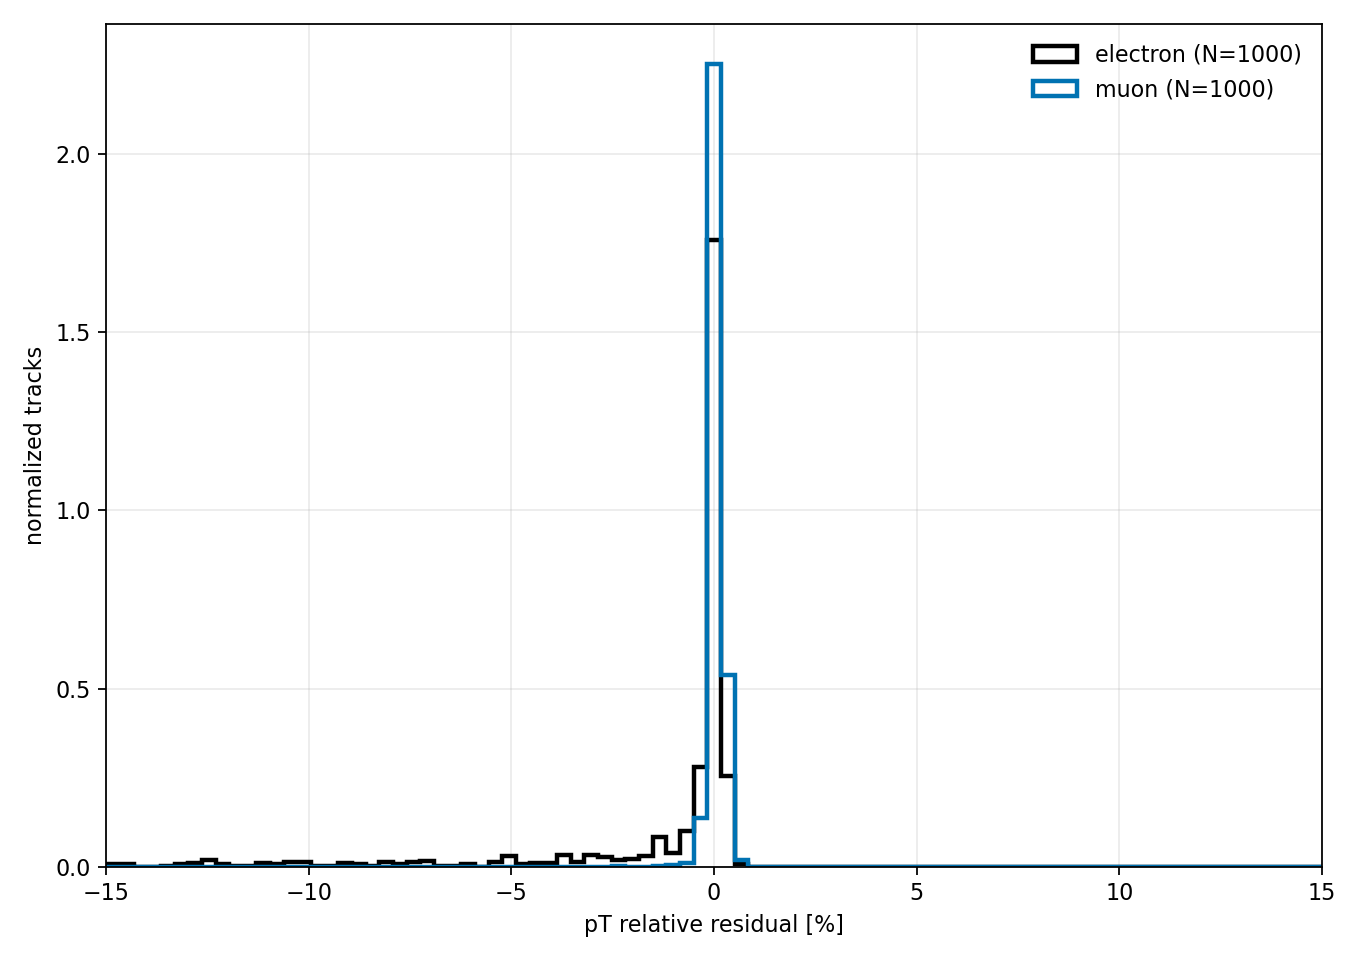
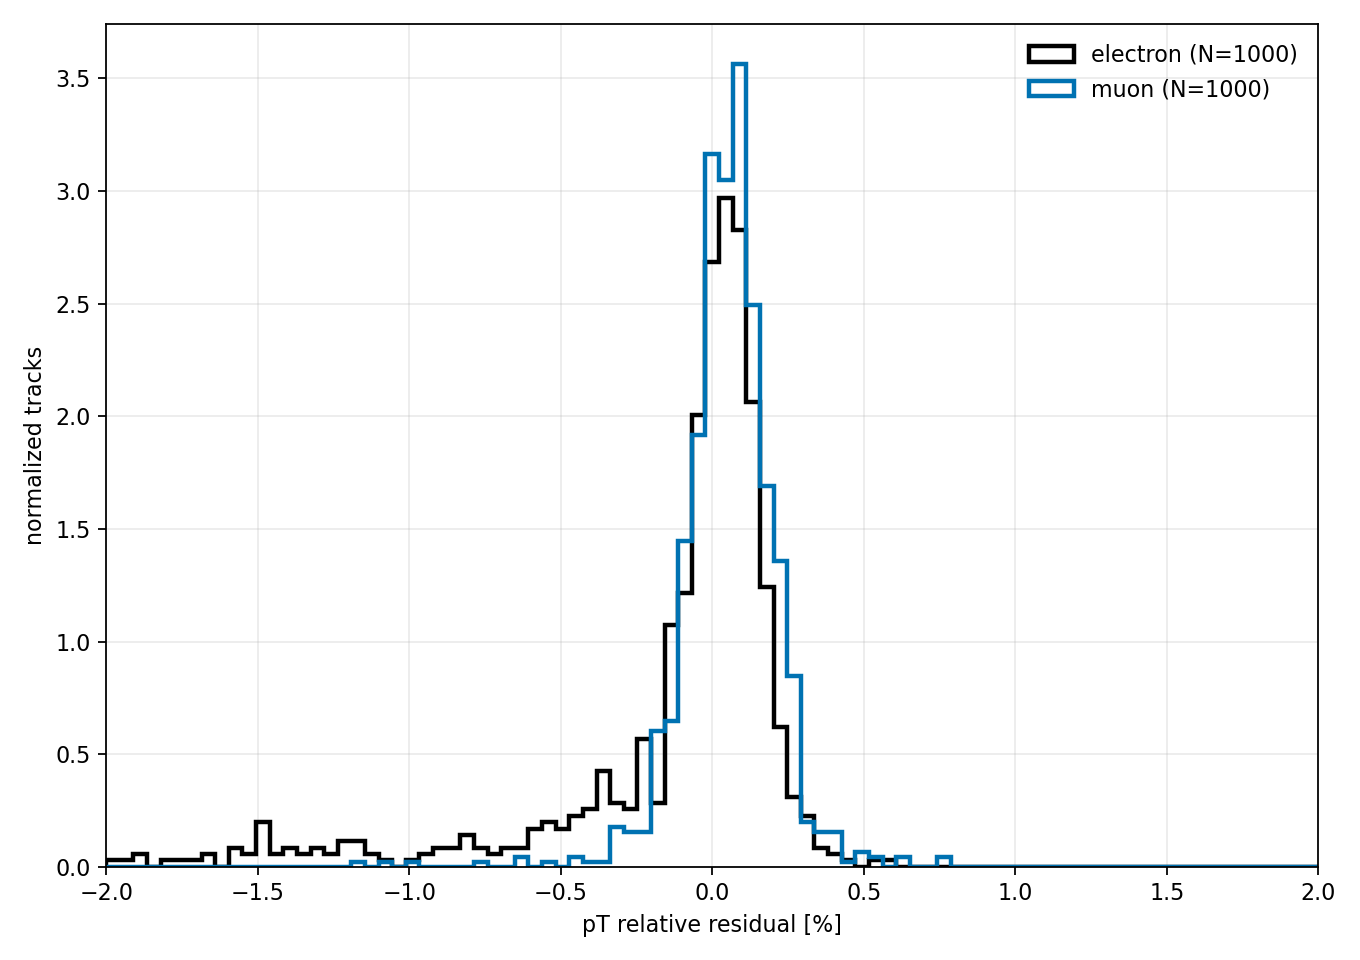
Zoom pT residual comparison plot

diff --git a/TrackingPerformanceStudies/lcio_track_resolution_2p0_theta85/scripts/analyze_lcio_track_resolution.py b/TrackingPerformanceStudies/lcio_track_resolution_2p0_theta85/scripts/analyze_lcio_track_resolution.py
@@ -48,7 +48,7 @@ PARAMS = [
     ('phi_mrad', 'phi residual [mrad]', (-8.0, 8.0)),
     ('tanlambda', 'tan(lambda) residual', (-0.004, 0.004)),
     ('omega_rel_pct', 'omega relative residual [%]', (-15.0, 15.0)),
-    ('pt_rel_pct', 'pT relative residual [%]', (-15.0, 15.0)),
+    ('pt_rel_pct', 'pT relative residual [%]', (-2.0, 2.0)),
 ]
 
 COLORS = {'electron': 'black', 'muon': '#0072B2'}

diff --git a/TrackingPerformanceStudies/lcio_track_resolution_2p0_theta85/README.md b/TrackingPerformanceStudies/lcio_track_resolution_2p0_theta85/README.md
@@ -55,6 +55,8 @@ Each plot overlays electron in black and muon in blue, normalized to unit area.
 
 ![pT resolution](plots/pt_rel_pct_resolution_comparison.png)
 
+The pT residual plot is zoomed to `[-2%, 2%]` to show the core resolution; the larger electron tails are quantified separately below.
+
 ![chi2 over ndf](plots/chi2_ndf_resolution_comparison.png)
 
 ## Current Results
